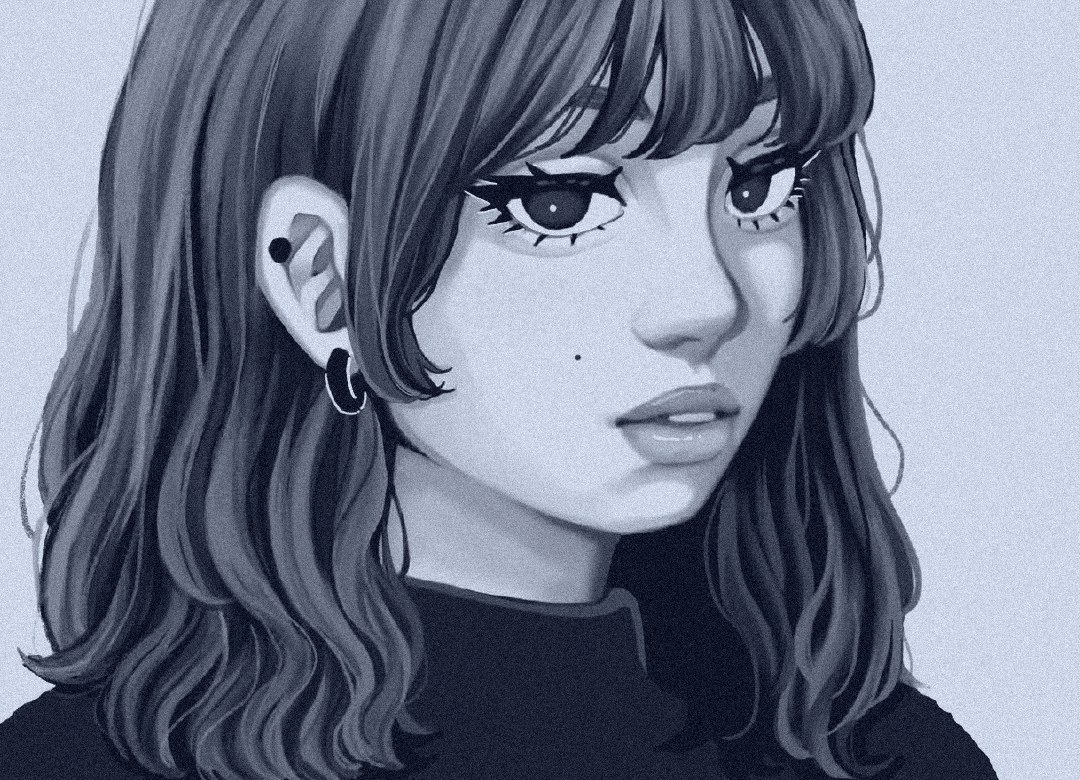
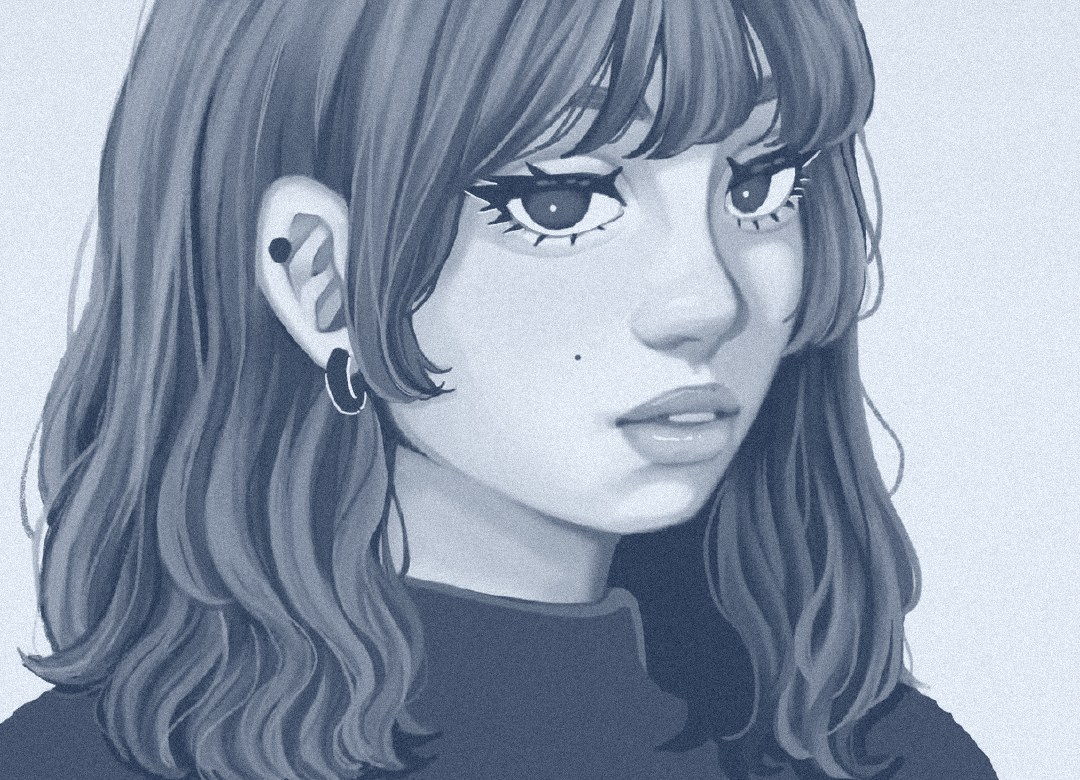
Soften palette to blue-grey with one warm accent; add signature, sparkle motif, bento About tiles and cut-out character
Claude-Session: https://claude.ai/code/session_01GPGckZEsofTcxj1jt2CKdh

diff --git a/src/styles/site.css b/src/styles/site.css
@@ -11,11 +11,12 @@ h1, h2, .display { font-family: var(--font-display); font-weight: var(--display-
 h3 { font-family: var(--font-body); font-weight: 700; letter-spacing: 0; line-height: 1.35; }
 .cjk { font-family: var(--font-cjk-display); font-weight: 900; letter-spacing: 0; }
 .muted { color: var(--color-muted); font-size: var(--text-sm); }
-.on-ink { background: var(--color-ink); color: var(--color-on-ink); }
+.on-ink { background: var(--color-band); color: var(--color-on-ink); }
 .on-ink .muted { color: var(--color-on-ink-muted); }
 .on-ink :focus-visible { outline-color: var(--color-focus-on-ink); }
 .on-ink a:hover { text-decoration-color: var(--color-accent); }
-.plus { display: inline-block; width: 14px; height: 14px; background: linear-gradient(currentColor, currentColor) center / 100% 2px no-repeat, linear-gradient(currentColor, currentColor) center / 2px 100% no-repeat; }
+.spark { display: block; color: var(--color-on-ink-muted); }
+.spark--hero { margin-bottom: var(--space-md); }
 
 /* nav */
 .nav .container { display: flex; align-items: center; justify-content: space-between; min-height: 76px; }
@@ -38,7 +39,7 @@ h3 { font-family: var(--font-body); font-weight: 700; letter-spacing: 0; line-he
 .hero__edge { position: absolute; left: var(--space-md); top: 50%; translate: 0 -50%; writing-mode: vertical-rl; rotate: 180deg; font-size: var(--text-xs); color: var(--color-on-ink-muted); }
 .hero__inner { position: relative; display: grid; align-items: center; min-height: min(680px, calc(100svh - 76px)); padding-block: var(--space-xl) var(--space-2xl); }
 .hero__photo { position: absolute; top: 0; right: 0; bottom: 0; width: min(62%, 860px); margin: 0; }
-.hero__photo img { width: 100%; height: 100%; object-fit: cover; object-position: 30% 40%; -webkit-mask-image: linear-gradient(to right, transparent 0, var(--color-mask) 38%); mask-image: linear-gradient(to right, transparent 0, var(--color-mask) 38%); }
+.hero__img { width: 100%; height: 100%; object-fit: cover; object-position: 30% 40%; -webkit-mask-image: linear-gradient(to right, transparent 0, var(--color-mask) 38%); mask-image: linear-gradient(to right, transparent 0, var(--color-mask) 38%); }
 .hero__text { position: relative; z-index: var(--z-base); max-width: 46rem; }
 .hero h1 { max-width: none; font-size: clamp(4rem, 11.5vw, 9.5rem); line-height: 0.92; margin-bottom: var(--space-lg); }
 .hero h1 .line { display: block; }
@@ -86,12 +87,6 @@ h3 { font-family: var(--font-body); font-weight: 700; letter-spacing: 0; line-he
 .statement__side { position: absolute; left: var(--gutter); bottom: var(--space-3xl); display: flex; flex-direction: column; gap: var(--space-sm); }
 .statement__side .num { font-size: var(--text-display-s); font-variant-numeric: tabular-nums; }
 
-/* about */
-.about { display: grid; grid-template-columns: minmax(0, 5fr) minmax(0, 7fr); gap: var(--gap-columns); align-items: start; }
-.about p { font-size: var(--text-lead); line-height: 1.75; }
-.about p + p { margin-top: var(--space-md); }
-.about__side { grid-column: 1; }
-
 /* experience */
 .rows { border-top: var(--rule-bar) solid var(--color-on-ink); }
 .row { display: grid; grid-template-columns: minmax(0, 4fr) minmax(0, 5fr) minmax(0, 4fr); gap: var(--gap-columns); padding-block: var(--space-lg); border-bottom: var(--rule-hair) solid var(--color-rule-on-ink); align-items: baseline; }
@@ -111,7 +106,7 @@ h3 { font-family: var(--font-body); font-weight: 700; letter-spacing: 0; line-he
 
 @media (max-width: 60rem) {
   .hero__photo { width: 100%; opacity: 0.38; }
-  .hero__photo img { -webkit-mask-image: linear-gradient(to bottom, transparent 0, var(--color-mask) 40%); mask-image: linear-gradient(to bottom, transparent 0, var(--color-mask) 40%); }
+  .hero__img { -webkit-mask-image: linear-gradient(to bottom, transparent 0, var(--color-mask) 40%); mask-image: linear-gradient(to bottom, transparent 0, var(--color-mask) 40%); }
   .hero__edge { display: none; }
   .prints { grid-template-columns: minmax(0, 1fr); gap: var(--space-2xl); }
   .print, .print:nth-child(n) { grid-column: 1; margin-top: 0; }
@@ -132,3 +127,34 @@ h3 { font-family: var(--font-body); font-weight: 700; letter-spacing: 0; line-he
 
 .skip { position: absolute; left: var(--space-md); top: -80px; z-index: var(--z-toast); padding: var(--space-sm) var(--space-md); background: var(--color-accent); color: var(--color-accent-ink); font-weight: 700; }
 .skip:focus { top: var(--space-md); }
+
+/* hero signature */
+.hero__photo { position: absolute; }
+.hero__sig { position: absolute; right: 7%; bottom: 8%; width: clamp(150px, 20vw, 260px); height: auto; rotate: -6deg; pointer-events: none; }
+
+/* about: bento tiles */
+.bento { display: grid; grid-template-columns: repeat(12, minmax(0, 1fr)); gap: var(--gap-columns); align-items: stretch; }
+.tile { margin: 0; display: flex; background: var(--color-sheet); border: var(--rule-hair) solid var(--color-paper-3); border-radius: var(--radius-card); overflow: hidden; }
+.tile img { object-fit: cover; background: var(--color-paper-2); }
+.tile__text { align-self: center; padding: var(--space-xl); font-size: var(--text-xl); line-height: 1.65; font-weight: 500; }
+.tile--a { grid-column: span 7; }
+.tile--a img { flex: 0 0 44%; width: 44%; height: 100%; }
+.tile--b { grid-column: span 5; flex-direction: column; }
+.tile--b img { width: 100%; height: auto; aspect-ratio: 16 / 8; }
+.tile--c { grid-column: 1 / -1; }
+.tile--c img { flex: 0 0 26%; width: 26%; height: auto; min-height: 240px; object-position: 50% 12%; }
+
+/* contact: character grows from the bottom edge */
+.contact { position: relative; overflow: clip; }
+.contact .container { position: relative; z-index: var(--z-base); }
+.contact__girl { position: absolute; right: max(4vw, 24px); bottom: 0; width: min(30vw, 380px); height: auto; translate: 0 6%; pointer-events: none; }
+.spark--contact { position: absolute; right: min(31vw, 400px); top: 28%; }
+@media (max-width: 60rem) {
+  .bento { grid-template-columns: minmax(0, 1fr); }
+  .tile--a, .tile--b, .tile--c { grid-column: 1; }
+  .tile--a, .tile--c { flex-direction: column; }
+  .tile--a img, .tile--c img { flex: none; width: 100%; height: auto; aspect-ratio: 16 / 9; min-height: 0; }
+  .contact { display: flex; flex-direction: column; }
+  .contact__girl { position: relative; order: 3; align-self: flex-end; right: auto; bottom: auto; width: min(58vw, 280px); margin: var(--space-xl) 0 calc(var(--section-gap-s) * -1); translate: 0 0; }
+  .spark--contact { display: none; }
+}

diff --git a/tokens.css b/tokens.css
@@ -9,12 +9,12 @@
   --color-error: oklch(52% 0.19 27); --color-success: oklch(50% 0.12 150);
   --container: 1440px; --gutter: 64px; --gap-columns: 32px; --section-gap-s: 120px; --section-gap: 144px; --section-gap-l: 176px;
   --z-base: 1; --z-raised: 10; --z-dropdown: 100; --z-sticky: 200; --z-sticky-nav: 300; --z-modal: 400; --z-toast: 500; --z-tooltip: 600;
-  --color-paper: oklch(91% 0.018 258); --color-paper-2: oklch(85% 0.026 258); --color-paper-3: oklch(78% 0.034 258); --color-mask: oklch(19% 0.045 262); --color-sheet: oklch(98% 0.006 258);
-  --color-ink: oklch(19% 0.045 262); --color-ink-2: oklch(25% 0.05 262); --color-ink-3: oklch(31% 0.05 262); --color-muted: oklch(41% 0.045 258);
-  --color-on-ink: oklch(93% 0.016 258); --color-on-ink-muted: oklch(75% 0.03 258);
-  --color-rule: oklch(19% 0.045 262); --color-rule-on-ink: oklch(42% 0.04 260);
-  --color-accent: oklch(74% 0.15 45); --color-accent-ink: oklch(19% 0.045 262); --color-focus: oklch(48% 0.17 262); --color-focus-on-ink: oklch(82% 0.12 60);
-  --color-mark: color-mix(in oklab, var(--color-ink) 75%, transparent); --color-mark-on-ink: color-mix(in oklab, var(--color-on-ink) 70%, transparent);
+  --color-paper: oklch(95.5% 0.010 252); --color-paper-2: oklch(91% 0.018 254); --color-paper-3: oklch(86% 0.026 255); --color-sheet: oklch(98.8% 0.004 252);
+  --color-ink: oklch(33% 0.045 258); --color-ink-2: oklch(40% 0.045 258); --color-muted: oklch(48% 0.04 256); --color-mask: oklch(33% 0.045 258);
+  --color-band: oklch(44% 0.05 255); --color-band-2: oklch(50% 0.05 255); --color-on-ink: oklch(97.5% 0.008 252); --color-on-ink-muted: oklch(86% 0.025 252);
+  --color-rule: oklch(33% 0.045 258); --color-rule-on-ink: oklch(62% 0.04 255);
+  --color-accent: oklch(76% 0.17 46); --color-accent-ink: oklch(26% 0.04 258); --color-focus: oklch(50% 0.17 262); --color-focus-on-ink: oklch(84% 0.13 70);
+  --color-mark: color-mix(in oklab, var(--color-ink) 70%, transparent); --color-mark-on-ink: color-mix(in oklab, var(--color-on-ink) 70%, transparent);
   --font-display: "Gloock", "Noto Serif TC", "Songti TC", "PMingLiU", ui-serif, Georgia, serif; --font-body: "Noto Sans TC", "PingFang TC", "Microsoft JhengHei", ui-sans-serif, system-ui, sans-serif;
   --font-cjk-display: "Noto Serif TC", "Songti TC", "PMingLiU", ui-serif, serif;
   --font-outlier: var(--font-body);

diff --git a/src/data/profile.ts b/src/data/profile.ts
@@ -5,9 +5,10 @@ export const profile = {
   name: '林湘儀',
   title: '視覺設計｜影音剪輯｜內容企劃｜AI 製作',
   tagline: '從企劃、視覺設計到影片剪輯，獨立完成整件作品。',
-  about: [
-    '我是一名設計工作者，從小接觸繪畫，養成了觀察細節與探索視覺表現的習慣。',
-    '對我而言，設計是結合創意與溝通的過程。目前我結合插畫、平面設計、影音剪輯與 AI 工具，希望在品牌與行銷專案中，做出真正能被看見、能產生影響的設計。',
+  aboutTiles: [
+    { text: '從小接觸繪畫，養成了觀察細節與探索視覺表現的習慣。', image: '/works/crop-pink.jpg', alt: '粉色背景的人物插畫，少女側臉', size: [747, 542] },
+    { text: '設計是結合創意與溝通的過程。', image: '/works/crop-eyes.jpg', alt: '手繪的一雙眼睛，瞳孔是漩渦', size: [546, 299] },
+    { text: '結合插畫、平面設計、影音剪輯與 AI 工具，希望在品牌與行銷專案中，做出真正能被看見、能產生影響的設計。', image: '/works/crop-poster.jpg', alt: '2025 耶誕小鎮活動海報', size: [1040, 1463] },
   ],
   email: 'youzi900g@gmail.com',
   links: [{ label: '完整作品集（Canva）', href: portfolioUrl }],
